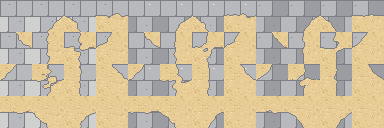
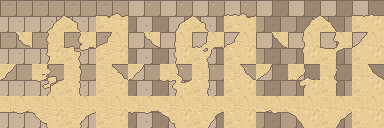
Ground tiles: warm stone paving palette to match dirt and sand
Claude-Session: https://claude.ai/code/session_01UfpJh2yGrDMaNfv5mQuco1

diff --git a/tools/pixel-art/ground.py b/tools/pixel-art/ground.py
@@ -17,7 +17,7 @@ D = [hx(c) for c in ('#5a3a22', '#74502f', '#8a6039', '#9a6c42', '#a6784b', '#b4
 SN = [hx(c) for c in ('#7f97b0', '#a3b9cd', '#c4d6e4', '#dfeaf2', '#f4f9fc', '#ffffff')]   # kar: mavimsi gölgeler, beyaz tepe
 SAND = [hx(c) for c in ('#b08a58', '#c9a46c', '#dcbd84', '#e8cc96', '#f1dba8', '#f9ecc6')]
 WATER = [hx(c) for c in ('#1c566f', '#276f89', '#3186a0', '#4099ae', '#5db3bf', '#93d3d6')]
-PAVE = [hx(c) for c in ('#5c5d66', '#7d7e86', '#9c9da3', '#b8b9bc', '#d0d0cf', '#e9e8e2')]
+PAVE = [hx(c) for c in ('#5e4d45', '#7e6a5c', '#9b8672', '#b39c84', '#c8b39a', '#dccbb2')]
 STONE = [hx(c) for c in ('#4d4a48', '#7a746c', '#a59d90', '#cbc3b3')]
 FLOWERS = [(hx('#f4eed2'), hx('#f2c94c')), (hx('#f2c94c'), hx('#c9772c')), (hx('#e58aa6'), hx('#f6e7a8')), (hx('#a99be8'), hx('#f6e7a8'))]
 
@@ -266,7 +266,7 @@ def pave_tile(variant):
         off = (row % 2) * (BW // 2)
         for col in range(T // BW + 1):
             x0 = col * BW + off; y0 = row * BH
-            shade = r.choice((2, 3, 3, 3, 4))
+            shade = r.choice((2, 3, 3, 4, 4))
             for y in range(BH):
                 for x in range(BW):
                     c = PAVE[shade]
